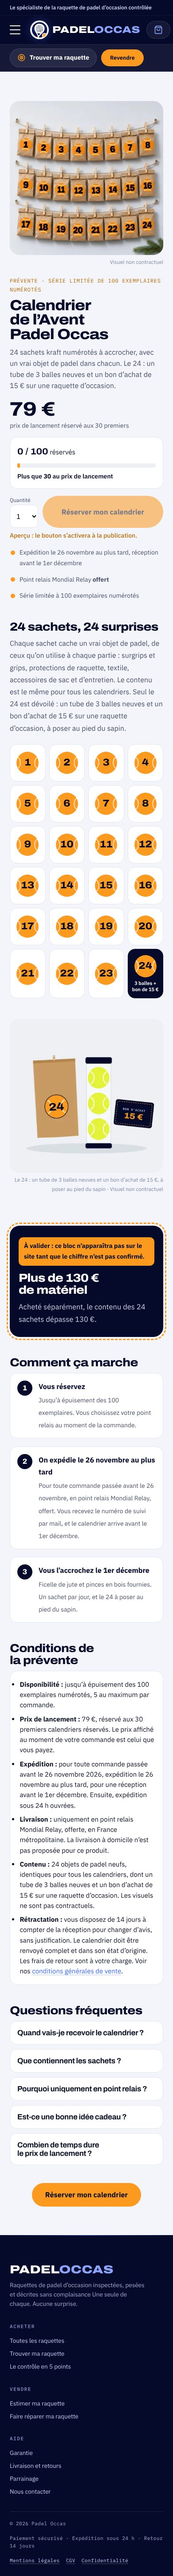
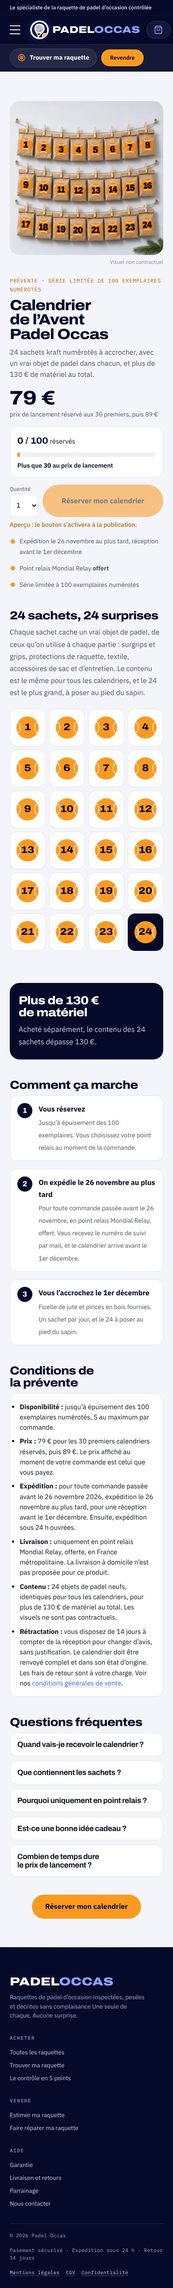
Calendrier de l'Avent v1.3.0 — « puis 89 € » affiché, contenu du 24 masqué, bloc 130 € activé
Claude-Session: https://claude.ai/code/session_019D3zZFY3edwsYLJmSPcafF

diff --git a/padel-occas-avent/page-calendrier-avent-padel.html b/padel-occas-avent/page-calendrier-avent-padel.html
@@ -4,9 +4,8 @@
 
 <section class="poc-av-sec" id="contenu">
 <h2>24 sachets, 24 surprises</h2>
-<p class="poc-av-intro">Chaque sachet cache un vrai objet de padel, de ceux qu’on utilise à chaque partie : surgrips et grips, protections de raquette, textile, accessoires de sac et d’entretien. Le contenu est le même pour tous les calendriers. Seul le 24 est dévoilé : un tube de 3 balles neuves et un bon d’achat de 15&nbsp;€ sur une raquette d’occasion, à poser au pied du sapin.</p>
+<p class="poc-av-intro">Chaque sachet cache un vrai objet de padel, de ceux qu’on utilise à chaque partie : surgrips et grips, protections de raquette, textile, accessoires de sac et d’entretien. Le contenu est le même pour tous les calendriers, et le 24 est le plus grand, à poser au pied du sapin.</p>
 [poc_avent_grille]
-[poc_avent_visuel n="2" legende="Le 24 : un tube de 3 balles neuves et un bon d’achat de 15 €, à poser au pied du sapin"]
 </section>
 
 [poc_avent_valeur]
@@ -27,17 +26,17 @@
 <h2>Conditions de la prévente</h2>
 <ul class="poc-av-conditions">
 <li><strong>Disponibilité :</strong> jusqu’à épuisement des 100 exemplaires numérotés, 5 au maximum par commande.</li>
-<li><strong>Prix de lancement :</strong> 79&nbsp;€, réservé aux 30 premiers calendriers réservés. Le prix affiché au moment de votre commande est celui que vous payez.</li>
+<li><strong>Prix :</strong> 79&nbsp;€ pour les 30 premiers calendriers réservés, puis 89&nbsp;€. Le prix affiché au moment de votre commande est celui que vous payez.</li>
 <li><strong>Expédition :</strong> pour toute commande passée avant le 26 novembre 2026, expédition le 26 novembre au plus tard, pour une réception avant le 1er&nbsp;décembre. Ensuite, expédition sous 24&nbsp;h ouvrées.</li>
 <li><strong>Livraison :</strong> uniquement en point relais Mondial Relay, offerte, en France métropolitaine. La livraison à domicile n’est pas proposée pour ce produit.</li>
-<li><strong>Contenu :</strong> 24 objets de padel neufs, identiques pour tous les calendriers, dont un tube de 3 balles neuves et un bon d’achat de 15&nbsp;€ sur une raquette d’occasion. Les visuels ne sont pas contractuels.</li>
+<li><strong>Contenu :</strong> 24 objets de padel neufs, identiques pour tous les calendriers, pour plus de 130&nbsp;€ de matériel au total. Les visuels ne sont pas contractuels.</li>
 <li><strong>Rétractation :</strong> vous disposez de 14 jours à compter de la réception pour changer d’avis, sans justification. Le calendrier doit être renvoyé complet et dans son état d’origine. Les frais de retour sont à votre charge. Voir nos <a href="/cgv/">conditions générales de vente</a>.</li>
 </ul>
 </section>
 
 <section class="poc-av-sec po-faq" id="questions">
 <h2>Questions fréquentes</h2>
-<!-- poc:faq --><details><summary><h3>Quand vais-je recevoir le calendrier ?</h3></summary><p>Pour toute commande passée avant le 26 novembre, il part le 26 novembre au plus tard en point relais Mondial Relay. Comptez 2 à 4 jours de transport : il arrive avant le 1er&nbsp;décembre. Vous recevez le numéro de suivi par mail dès l’expédition.</p></details><details><summary><h3>Que contiennent les sachets ?</h3></summary><p>Un vrai objet de padel dans chacun : surgrips et grips, protections de raquette, textile, accessoires de sac et d’entretien. On garde la surprise sur le détail. Le 24 est un tube de 3 balles neuves et un bon d’achat de 15&nbsp;€ sur une raquette d’occasion.</p></details><details><summary><h3>Pourquoi uniquement en point relais ?</h3></summary><p>C’est ce qui nous permet de vous offrir la livraison. Vous choisissez le point relais qui vous arrange au moment de la commande, près de chez vous ou de votre travail.</p></details><details><summary><h3>Est-ce une bonne idée cadeau ?</h3></summary><p>Oui, pour tout joueur ou joueuse de padel, débutant comme confirmé : ce sont des objets qu’on utilise à chaque partie. Pour l’offrir, choisissez un point relais proche de la personne et indiquez son nom comme destinataire.</p></details><details><summary><h3>Combien de temps dure le prix de lancement ?</h3></summary><p>Le prix de 79&nbsp;€ est réservé aux 30 premiers calendriers réservés. Le compteur en haut de page indique combien il en reste à ce prix.</p></details><!-- /poc:faq -->
+<!-- poc:faq --><details><summary><h3>Quand vais-je recevoir le calendrier ?</h3></summary><p>Pour toute commande passée avant le 26 novembre, il part le 26 novembre au plus tard en point relais Mondial Relay. Comptez 2 à 4 jours de transport : il arrive avant le 1er&nbsp;décembre. Vous recevez le numéro de suivi par mail dès l’expédition.</p></details><details><summary><h3>Que contiennent les sachets ?</h3></summary><p>Un vrai objet de padel dans chacun : surgrips et grips, protections de raquette, textile, accessoires de sac et d’entretien. On garde la surprise sur le détail, y compris pour le 24. Au total, plus de 130&nbsp;€ de matériel.</p></details><details><summary><h3>Pourquoi uniquement en point relais ?</h3></summary><p>C’est ce qui nous permet de vous offrir la livraison. Vous choisissez le point relais qui vous arrange au moment de la commande, près de chez vous ou de votre travail.</p></details><details><summary><h3>Est-ce une bonne idée cadeau ?</h3></summary><p>Oui, pour tout joueur ou joueuse de padel, débutant comme confirmé : ce sont des objets qu’on utilise à chaque partie. Pour l’offrir, choisissez un point relais proche de la personne et indiquez son nom comme destinataire.</p></details><details><summary><h3>Combien de temps dure le prix de lancement ?</h3></summary><p>Le prix de 79&nbsp;€ est réservé aux 30 premiers calendriers réservés. Ensuite, le calendrier passe à 89&nbsp;€. Le compteur en haut de page indique combien il en reste au prix de lancement.</p></details><!-- /poc:faq -->
 </section>
 
 <p class="poc-av-cta-bas"><a class="po-btn po-btn--rouge po-btn--lg" href="#reserver">Réserver mon calendrier</a></p>

diff --git a/padel-occas-avent/padel-occas-avent.php b/padel-occas-avent/padel-occas-avent.php
@@ -2,7 +2,7 @@
 /**
  * Plugin Name: Padel Occas — Prévente Calendrier de l'Avent
  * Description: Prix de lancement automatique (79 € pour les 30 premiers, puis 89 €), compteur sur 100, vente jusqu'à épuisement, point relais seul et offert, grille des 24 sachets, lien d'aperçu secret, mise en avant accueil + menu.
- * Version:     1.2.0
+ * Version:     1.3.0
  * Author:      Padel Occas
  * License:     GPL v2 or later
  */
@@ -18,13 +18,13 @@ class POC_Avent_Config {
     const TOTAL          = 100;                    // exemplaires (pour augmenter : changer ici ET le stock du produit du même nombre)
     const LANCEMENT_QTE  = 30;                     // les N premiers au prix de lancement
     const PRIX_LANCEMENT = 79;
-    const PRIX           = 89;                     // affiché seulement une fois les N premiers vendus
+    const PRIX           = 89;                     // prix après les N premiers
     const EXPEDITION     = '2026-11-26';           // commandes passées avant : expédiées ce jour-là au plus tard
     const MAX_PAR_COMMANDE = 5;
 
     // Interrupteurs. Mettre true au moment de publier, false pour retirer.
     const MISE_EN_AVANT  = false;  // bandeau sur l'accueil + lien dans le menu principal
-    const VALEUR_VALIDEE = false;  // bloc « plus de 130 € de matériel »
+    const VALEUR_VALIDEE = true;   // bloc « plus de 130 € de matériel » (chiffre confirmé)
     const VALEUR_TEXTE   = 'Plus de 130 € de matériel'; // pour mémoire
 
     // Lien d'aperçu secret : /?page_id=<ID>&apercu=<jeton> (et /?apercu=<jeton> pour l'accueil)
@@ -150,7 +150,7 @@ class POC_Avent {
     public function price_html( $html, $product ) {
         if ( ! self::is_calendar( $product ) ) return $html;
         if ( self::launch_left() > 0 ) {
-            return sprintf( '%s <small>prix de lancement réservé aux %d premiers</small>', self::eur( POC_Avent_Config::PRIX_LANCEMENT ), POC_Avent_Config::LANCEMENT_QTE );
+            return sprintf( '%s <small>prix de lancement réservé aux %d premiers, puis %s</small>', self::eur( POC_Avent_Config::PRIX_LANCEMENT ), POC_Avent_Config::LANCEMENT_QTE, self::eur( POC_Avent_Config::PRIX ) );
         }
         return self::eur( POC_Avent_Config::PRIX );
     }
@@ -316,11 +316,11 @@ class POC_Avent {
           <div class="poc-av-hero__infos">
             <p class="poc-av-eyebrow">Prévente · Série limitée de <?php echo (int) $total; ?> exemplaires numérotés</p>
             <h1>Calendrier de l’Avent Padel&nbsp;Occas</h1>
-            <p class="poc-av-lead">24 sachets kraft numérotés à accrocher, avec un vrai objet de padel dans chacun. Le 24 : un tube de 3 balles neuves et un bon d’achat de 15&nbsp;€ sur une raquette d’occasion.</p>
+            <p class="poc-av-lead">24 sachets kraft numérotés à accrocher, avec un vrai objet de padel dans chacun, et plus de 130&nbsp;€ de matériel au total.</p>
 
             <div class="poc-av-prix">
               <span class="poc-av-prix__montant"><?php echo esc_html( self::eur( self::unit_price() ) ); ?></span>
-              <?php if ( $left > 0 ) : ?><span class="poc-av-prix__note">prix de lancement réservé aux <?php echo (int) POC_Avent_Config::LANCEMENT_QTE; ?> premiers</span><?php endif; ?>
+              <?php if ( $left > 0 ) : ?><span class="poc-av-prix__note">prix de lancement réservé aux <?php echo (int) POC_Avent_Config::LANCEMENT_QTE; ?> premiers, puis <?php echo esc_html( self::eur( POC_Avent_Config::PRIX ) ); ?></span><?php endif; ?>
             </div>
 
             <div class="poc-av-compteur">
@@ -367,12 +367,12 @@ class POC_Avent {
         );
     }
 
-    /** 24 balles numérotées ; seul le 24 est dévoilé (le contenu des autres reste une surprise) */
+    /** 24 balles numérotées : le contenu reste une surprise, le 24 est mis en valeur */
     public function sc_grille() {
         $out = '<ol class="poc-av-grille" aria-label="Les 24 sachets du calendrier">';
         for ( $n = 1; $n <= 24; $n++ ) {
             $out .= 24 === $n
-                ? '<li class="poc-av-jour poc-av-jour--24">' . self::ball( 24 ) . '<span class="poc-av-jour__objet">3 balles + bon de 15&nbsp;€</span></li>'
+                ? '<li class="poc-av-jour poc-av-jour--24">' . self::ball( 24 ) . '<span class="screen-reader-text">Sachet 24 : surprise</span></li>'
                 : sprintf( '<li class="poc-av-jour">%s<span class="screen-reader-text">Sachet %d : surprise</span></li>', self::ball( $n ), $n );
         }
         return $out . '</ol>';

diff --git a/padel-occas-avent/prompts-images-gpt.md b/padel-occas-avent/prompts-images-gpt.md
@@ -12,7 +12,7 @@ Fond uni gris très clair légèrement bleuté (#EEF0F3), lumière douce et diff
 Cadrage frontal, tout le calendrier visible avec une marge autour.
 Aucun autre texte, aucun logo de marque, aucune personne, aucune décoration de Noël autre qu'une petite branche de sapin discrète posée en bas à droite.
 
-## Image 2 — le jour 24
+## Image 2 — le jour 24 (plus utilisée : le contenu du 24 n'est plus dévoilé sur le site)
 
 Photo produit réaliste, style studio e-commerce, format carré, posée sur une surface gris très clair (#EEF0F3) avec un fond uni identique.
 Au centre, un sachet en papier kraft brun plus grand que les autres, au haut replié et fermé par une pince à linge en bois, avec un autocollant rond : une balle de padel orange vif (#FC9A20) aux coutures blanches et le numéro « 24 » en chiffres très gras bleu nuit (#060A2A).
